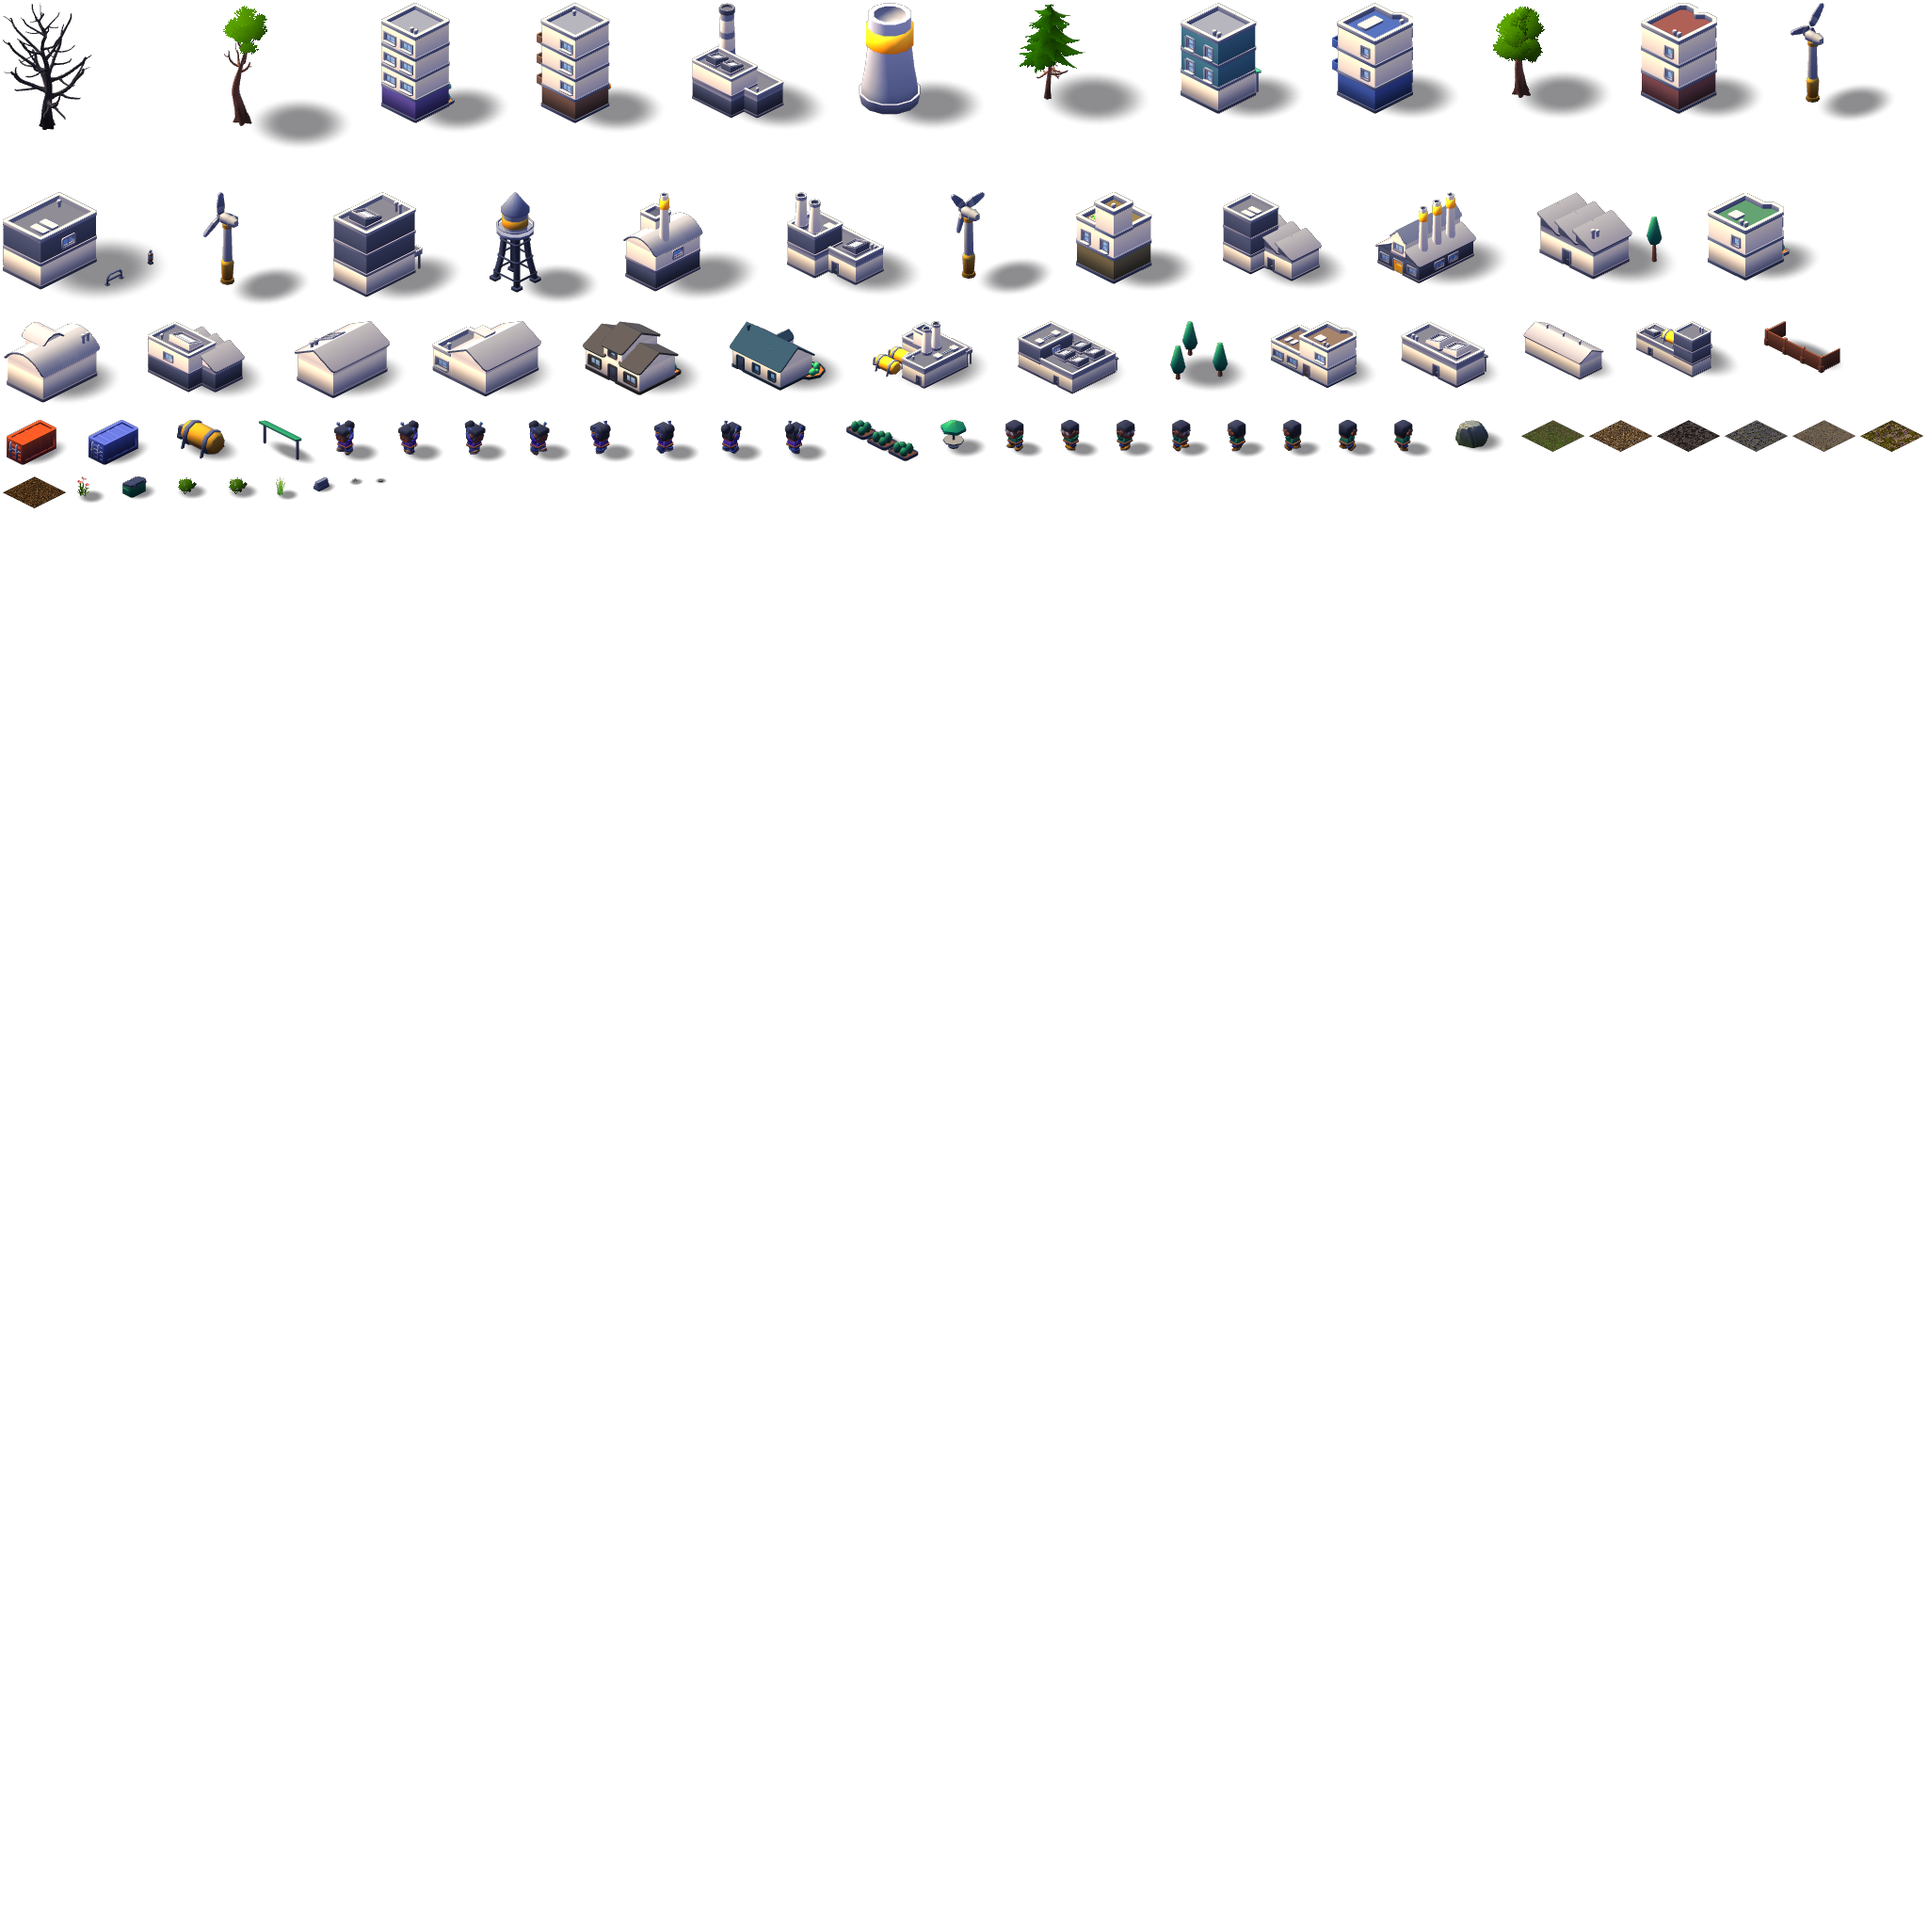
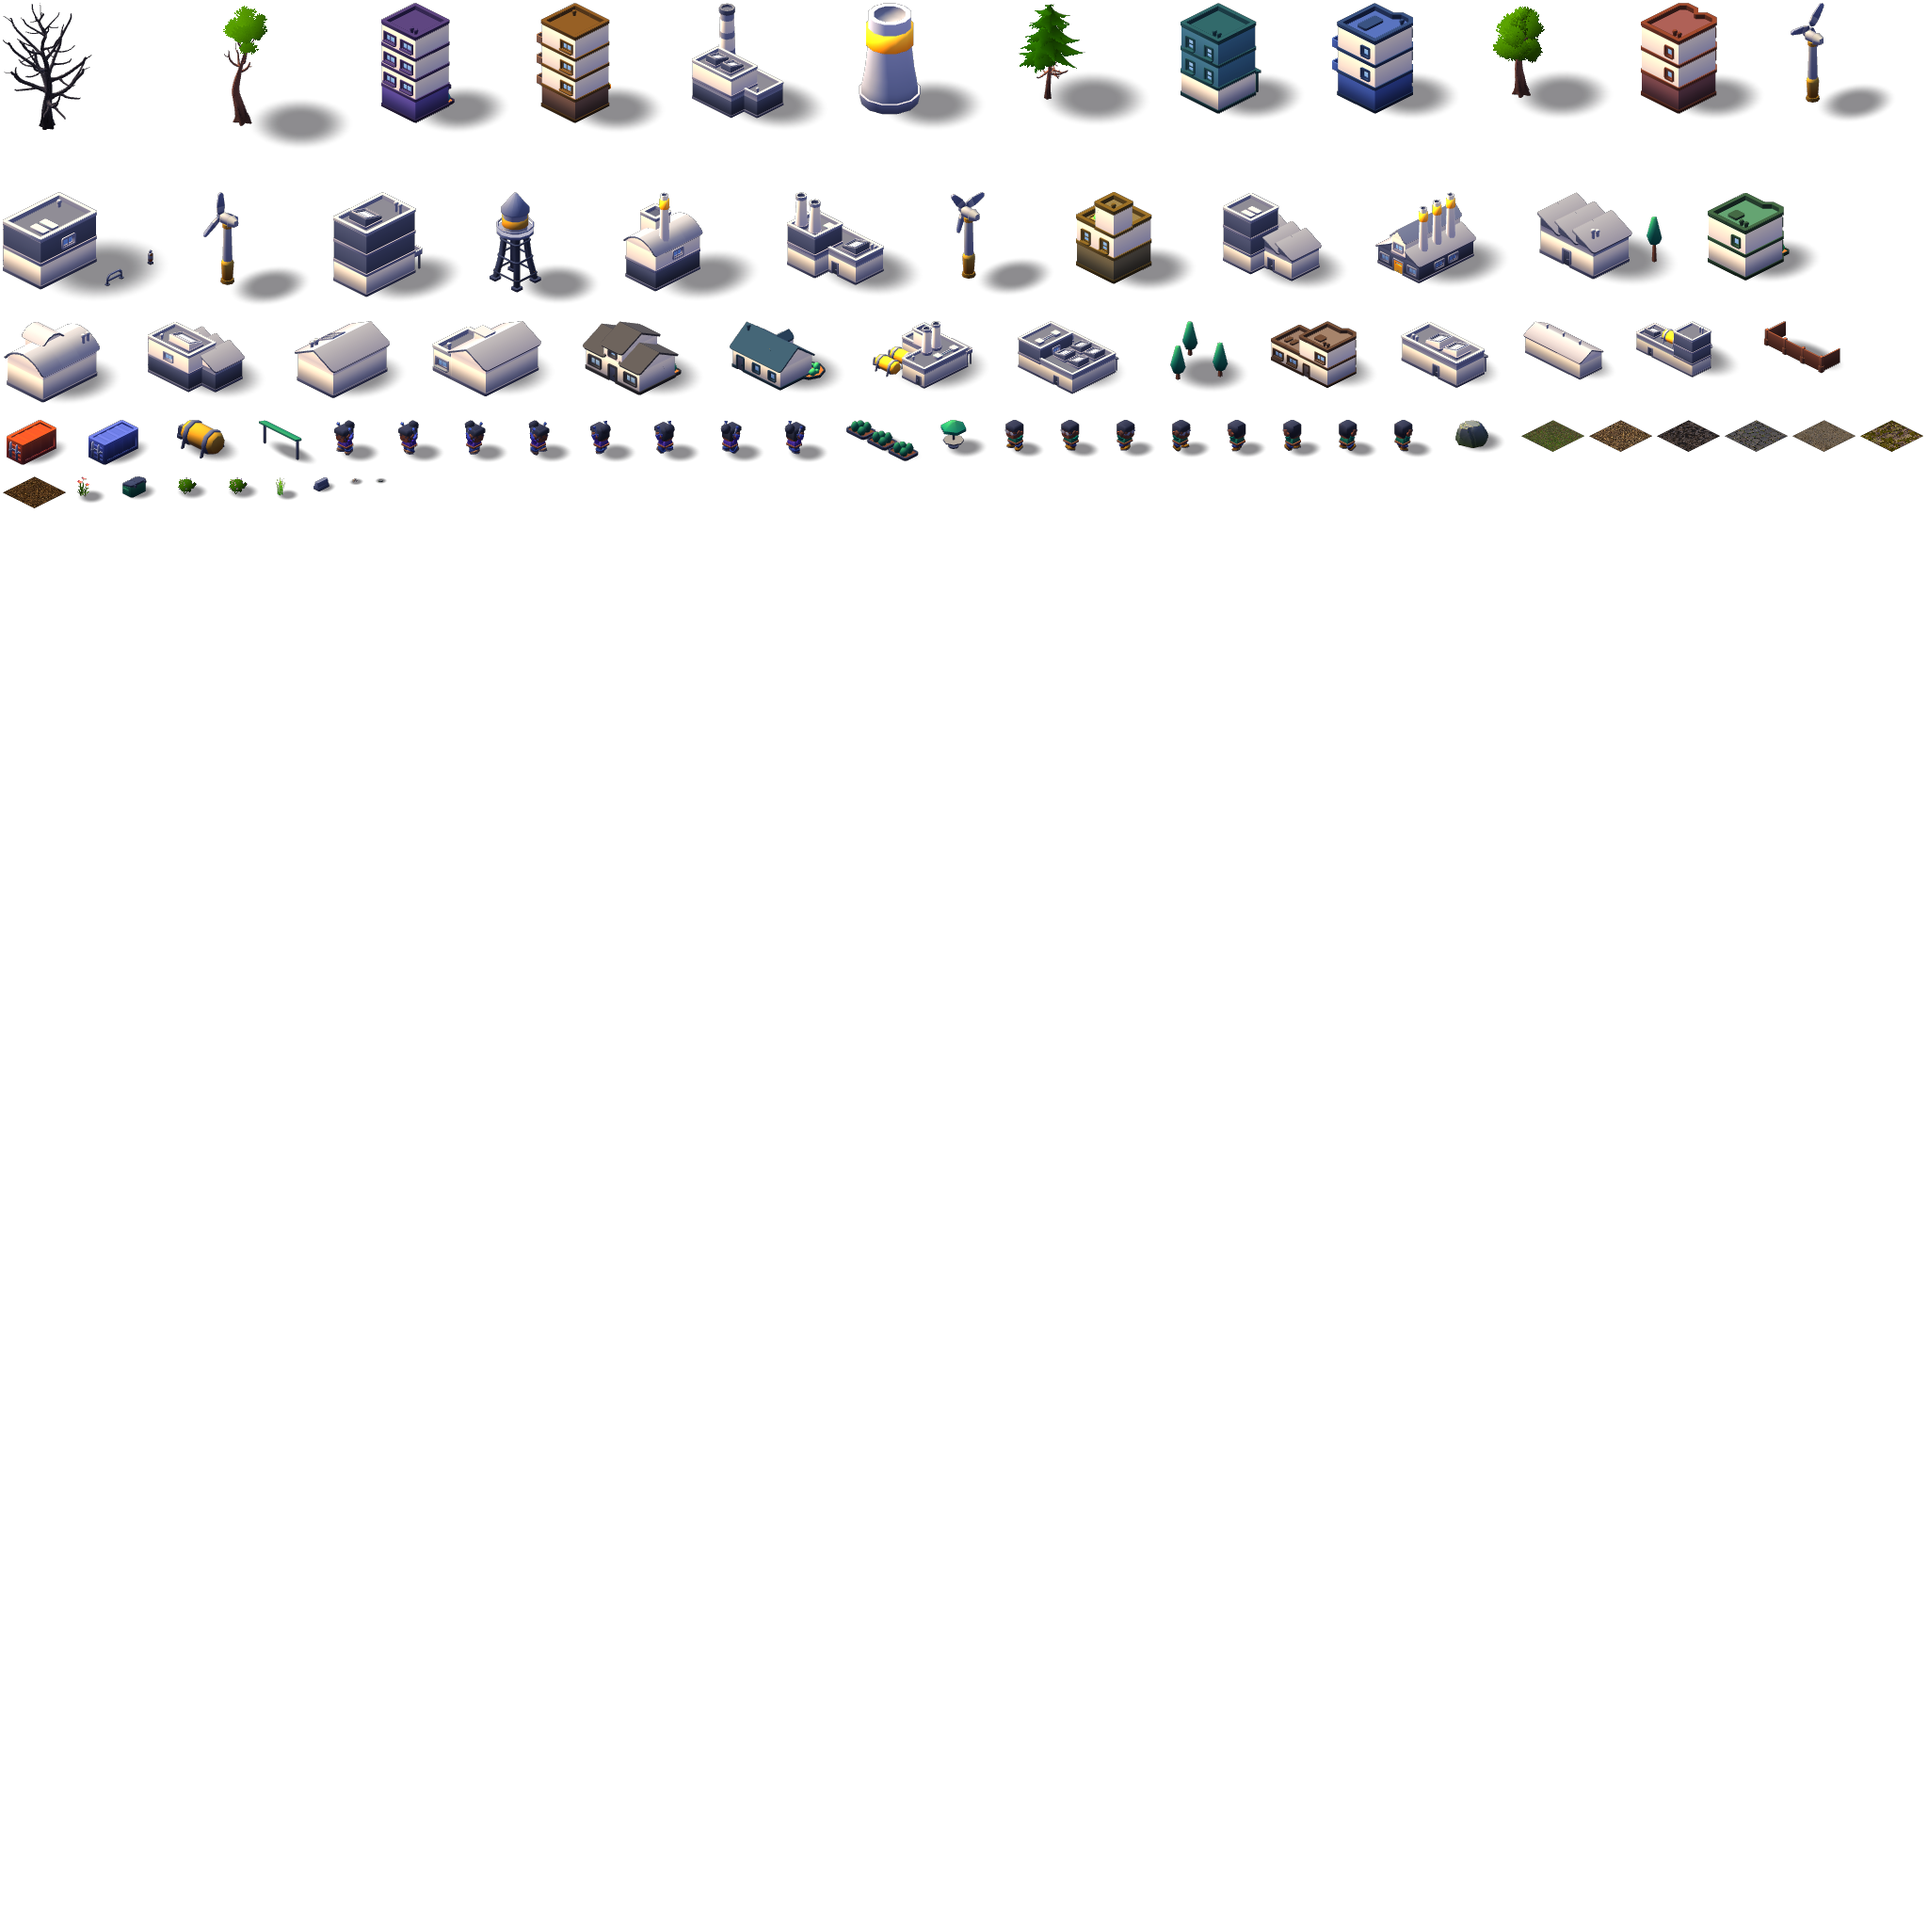
feat: tam nha pho me hien dai them mau vien cung sac voi mai
Truoc do than nha trang, chi mat mai co mau - nhin tu goc iso ra tam hop
trang giong nhau, khong doc ra duoc loai nha. Nay cot 1 (vien trang tri
quanh tung tang + go mai) son cung sac voi mai.

Ghi luon ban do cot vao `ghi_chu_cot` cua me: MOI GOI MOT KIEU.
`ks:building-type-a` cot 3 la cua ra vao, `kc:building-*` cot 3 la mat
mai - cung con so ma hai goi hieu khac nhau. Phien nay da doc nham mot
lan va bao sai cho chu du an.

Claude-Session: https://claude.ai/code/session_01SGj55VztvB84zs9WL6RyUg

diff --git a/docs/NHAT_KY/PHASE_8C.md b/docs/NHAT_KY/PHASE_8C.md
@@ -31,8 +31,16 @@ Sprite công trình nhiều khung, chủ dự án chốt 18/09. Làm đúng ba b
 - **Màu nhân không đổi được sắc.** Đo tám bộ nhân trên cột mái: tất cả vẫn ra xanh hoặc
   vàng. Thêm `mau_cot` dạng `{ "thay": [r,g,b] }` (thay hẳn, bỏ luôn ảnh cột đó) mới ra
   được ngói xám, nâu, đỏ.
-- **Dò cột bằng cách sơn đỏ từng cột.** Cột 1 = mái + khung cửa + chân tường; cột 3 = cửa
-  ra vào; cột 7 = tường; cột 11 = kính. Trước đó tám sprite thương mại đang sơn cột 3 —
-  tức chúng đổi màu **cửa**, không phải mái, suốt từ 18/09.
+- **Dò cột bằng cách sơn đỏ từng cột. MỖI GÓI MỘT KIỂU — đừng suy từ gói này sang gói kia.**
+  `ks:building-type-a` (nhà mái dốc): cột 1 = mái + khung cửa + chân tường, 3 = cửa ra vào,
+  7 = tường, 11 = kính. `kc:building-*` (nhà mái bằng): cột 1 = viền trang trí quanh từng
+  tầng + gờ mái, 3 = **mặt mái và tầng trệt**, 7 = tường, 11 = kính.
+  > **Sửa lại điều đã ghi sai trong chính phiên này:** tôi đọc cột 3 của `nha_dan` ra cửa
+  > rồi kết luận tám sprite thương mại "sơn nhầm cột", và báo vậy với chủ dự án. **Sai** —
+  > ở `kc:building-*` cột 3 đúng là mặt mái, tám sprite đó vẫn đang sơn mái. Cùng một con
+  > số cột mà hai gói hiểu khác nhau.
+- **Tám nhà phố: thêm màu viền (cột 1) cùng sắc với mái.** Không phải sửa lỗi mà là thêm:
+  trước đó thân nhà trắng, chỉ mái có màu, nhìn từ trên xuống ra tám hộp trắng giống nhau.
+  Nay mỗi xưởng một màu viền quấn quanh mặt tiền, đọc ra được loại nhà từ xa.
 - **Người chibi: giữ.** Hai mẻ không bao giờ cùng trên màn; ở mức thu phóng chơi thật
   người cao khoảng 45 điểm ảnh CSS nên tỉ lệ đầu không đọc ra được.

diff --git a/docs/TIEN_DO.md b/docs/TIEN_DO.md
@@ -33,6 +33,9 @@ Chi tiết ở mục 5. **Đời 5 hiện CHƯA TỚI ĐƯỢC bằng cách chơ
   dùng, nên máy ảo sạch không nướng lại được mẻ đó.
 - **`mau_cot` thêm dạng `{ "thay": [r,g,b] }`** — thay hẳn màu một cột và bỏ luôn ảnh cột
   đó. Mái mẻ hiện đại hết xanh neon; chi tiết và vì sao màu nhân không đủ: mục 3.
+- **Tám nhà phố `kc:building-*` thêm màu viền (cột 1)** cùng sắc với mái, nên mỗi xưởng
+  đọc ra được từ xa thay vì tám hộp trắng giống nhau. **Bản đồ cột của mỗi gói MỘT KIỂU** —
+  ghi đủ ở `tools/me/hien_dai.json > ghi_chu_cot`; đọc nhầm một lần trong phiên 19/09.
 
 Mười bốn phiên đồ nghề trước Phase 8B (12/09 → 18/09 ×3): `docs/NHAT_KY/PHASE_8_RA_SOAT.md`,
 `PHASE_8_DO_NGHE.md`, `PHASE_8_NHAC_KHO.md`, `PHASE_8_TAT_DINH.md`, `PHASE_8_BAN_DUYET.md`,
